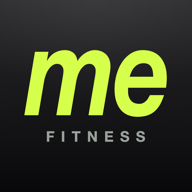
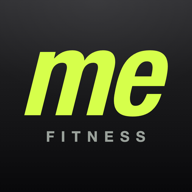
图标：改用真正的 HelveticaNeue-CondensedBold

diff --git a/tools/icon.html b/tools/icon.html
@@ -1,5 +1,6 @@
 <!doctype html>
 <html><head><meta charset="utf-8">
+<style>@font-face{font-family:'HNCB';src:local('HelveticaNeue-CondensedBold'),local('Helvetica Neue Condensed Bold')}</style>
 <style>
   html,body{margin:0;padding:0}
   .canvas{
@@ -10,18 +11,18 @@
       linear-gradient(180deg,#303033 0%,#1C1C1E 38%,#121214 72%,#08080A 100%);
   }
   .me{
-    font-family:"Helvetica Neue",Helvetica,sans-serif;
+    font-family:"HNCB","Helvetica Neue",Helvetica,sans-serif;
     font-style:italic;font-weight:700;
-    font-size:657px;line-height:.72;letter-spacing:-.02em;
+    font-size:630px;line-height:.72;letter-spacing:-.02em;
     color:#d6ff4b;margin:0 0 58px 6px;
-    transform:translate(2px,-77px) scaleX(.81);
+    transform:translate(-44px,-61px);
   }
   .sub{
     font-family:"Helvetica Neue",Helvetica,sans-serif;
     font-weight:700;font-size:78px;line-height:1;
     letter-spacing:.44em;color:#9aa19b;
     margin-left:.44em;
-    transform:translate(-2px,-50px);
+    transform:translate(-2px,-40px);
   }
 </style></head>
 <body>
